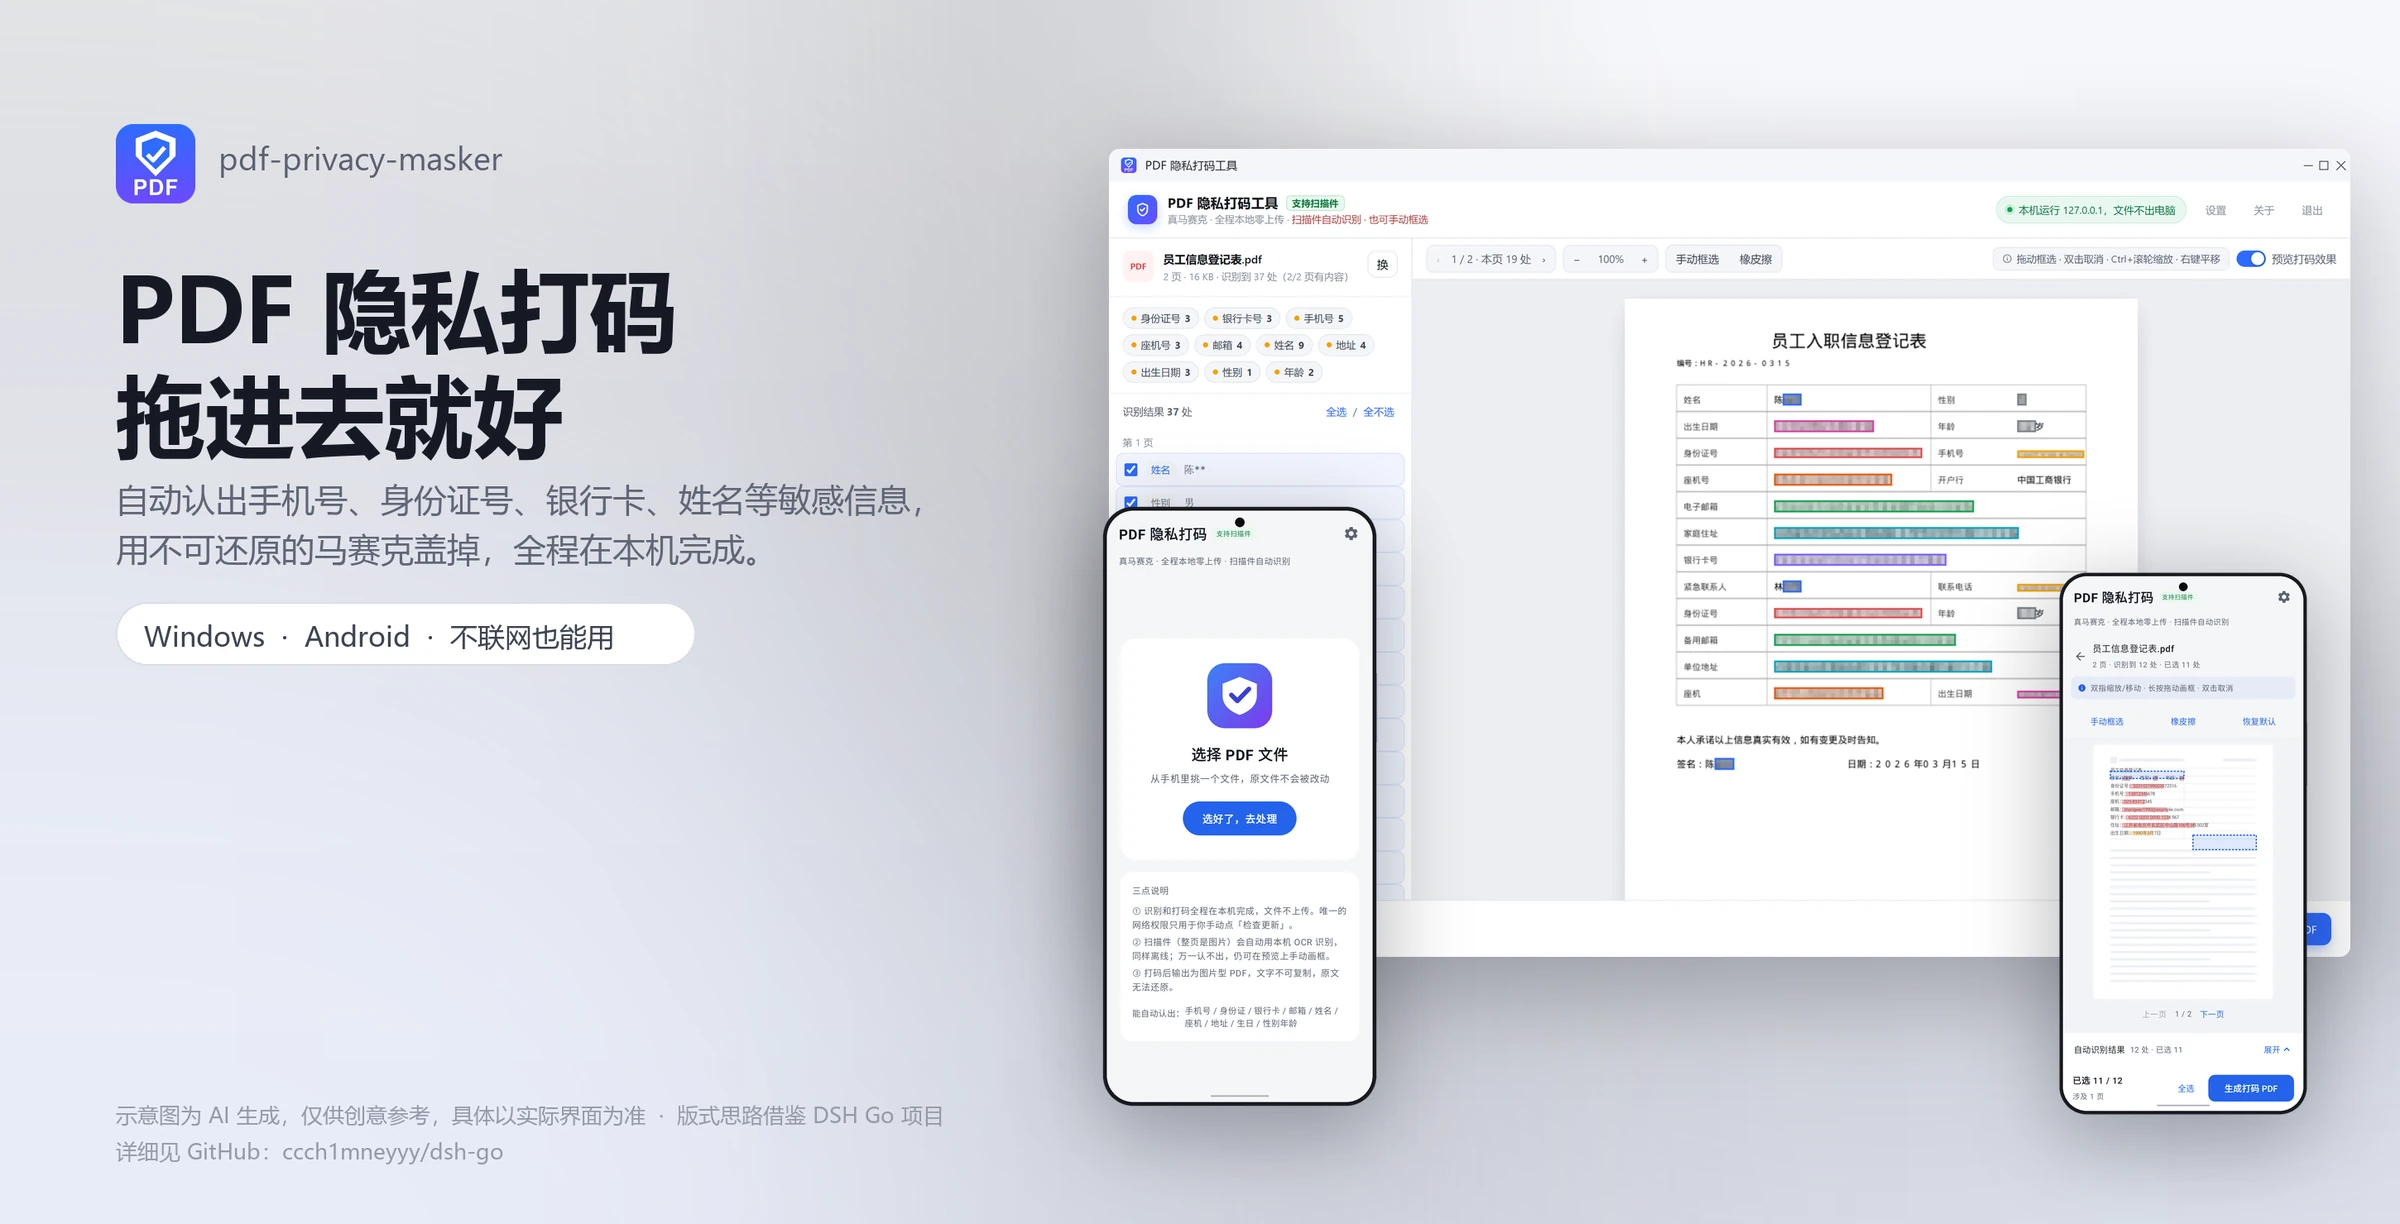
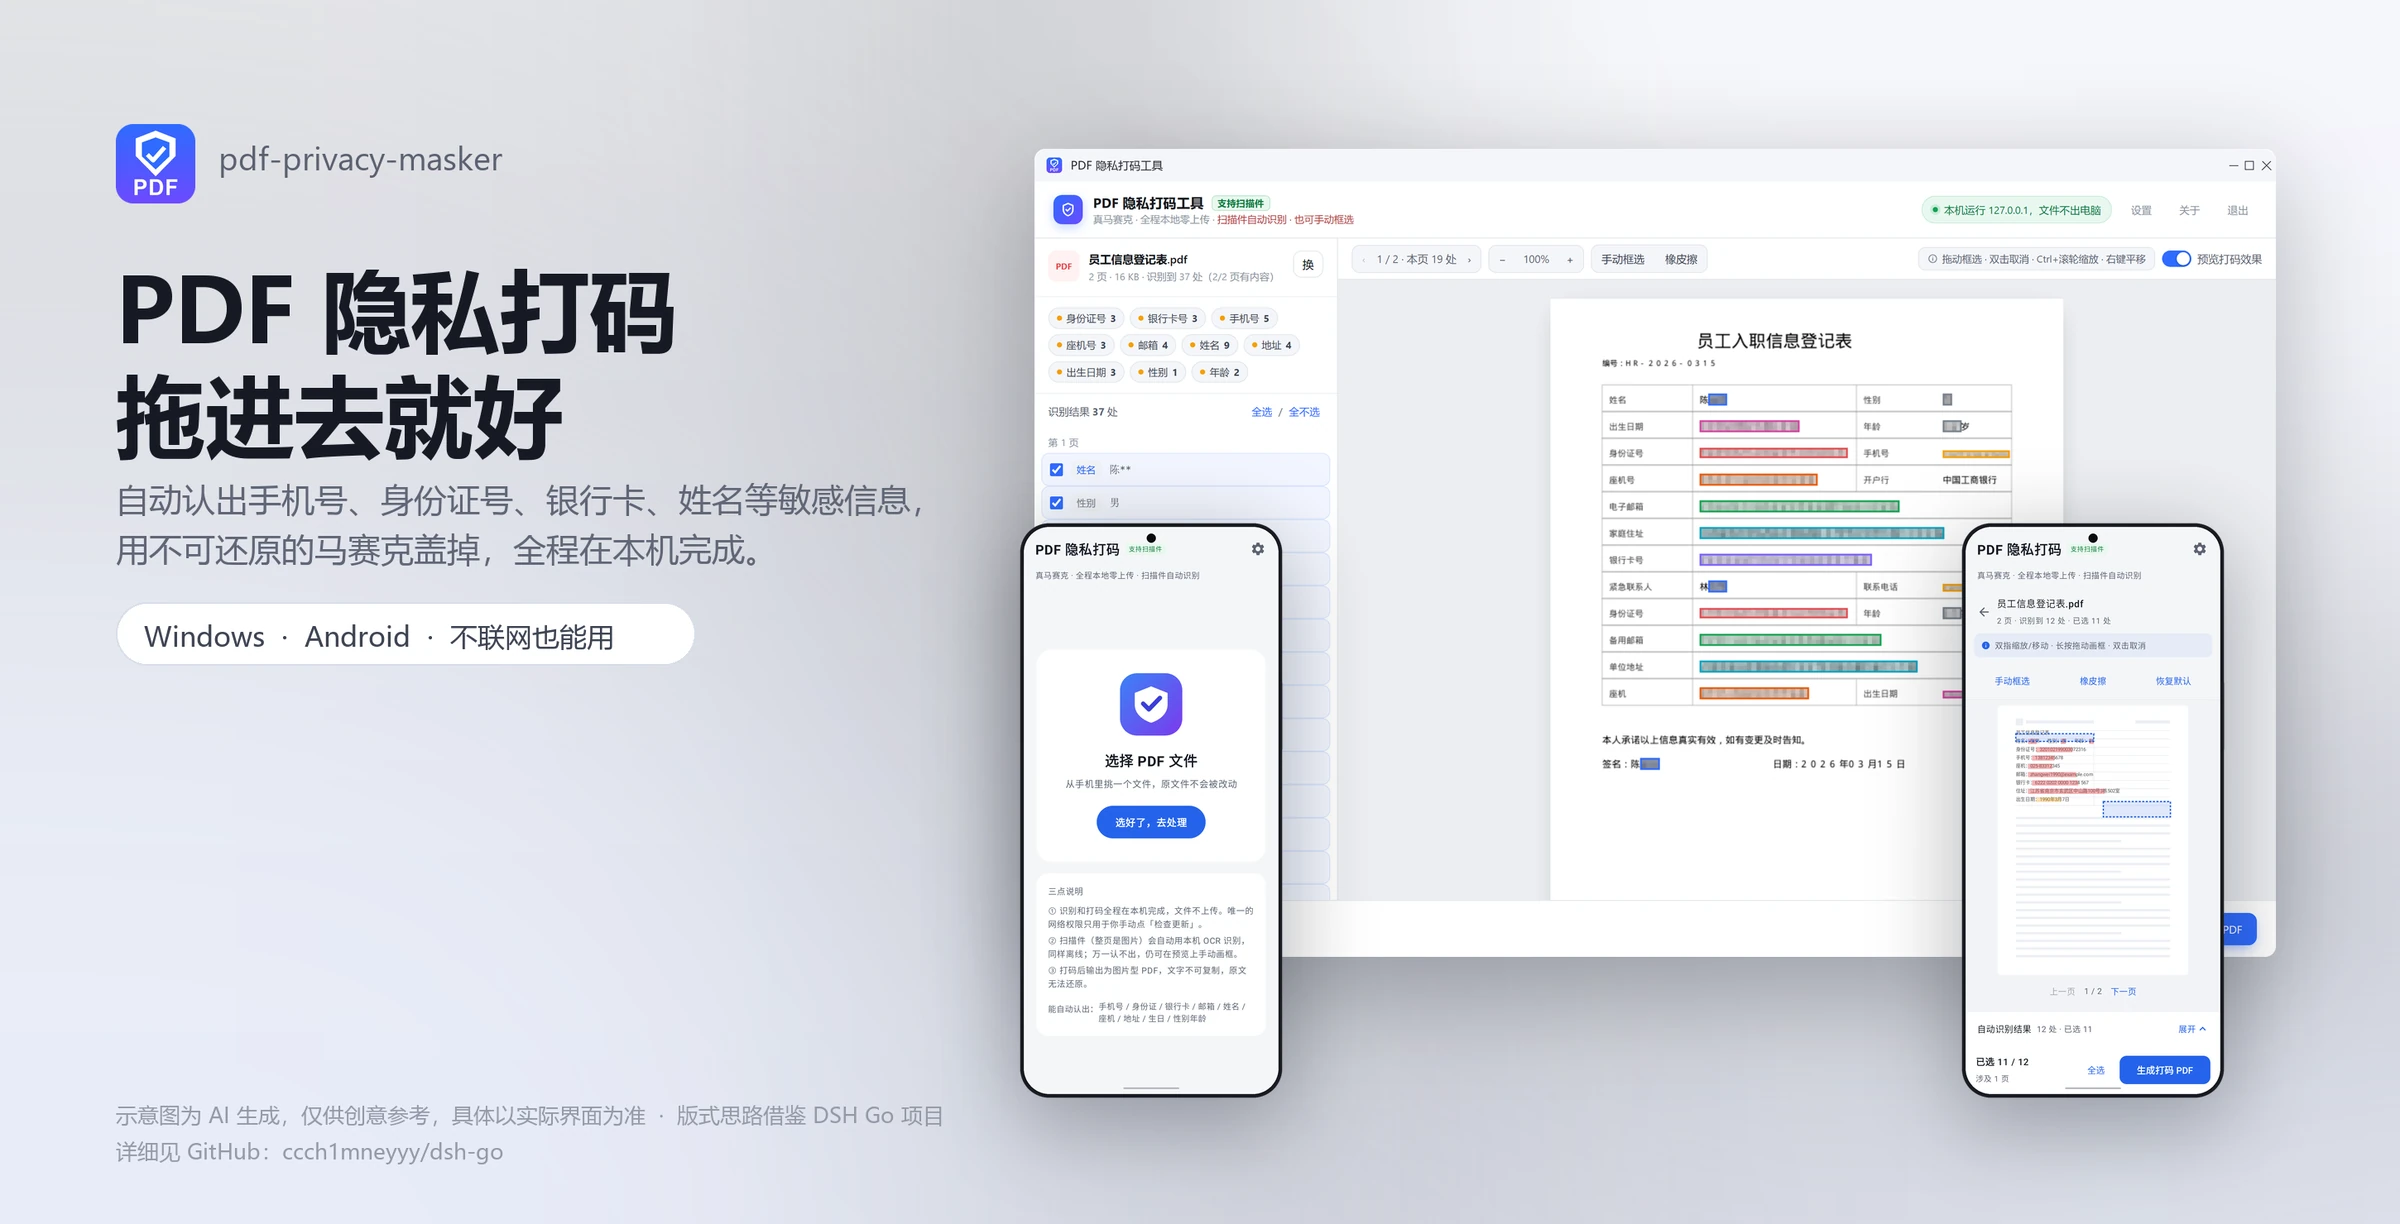
docs(readme): 首图构图微调——两台手机等高对齐、整块左移约 2cm
- 两台手机统一 max_h=700 并共用同一个 y，不再一高一低
- 窗口+手机整块左移 90px，右侧不再空一大块

diff --git a/dev/make_readme_shots.py b/dev/make_readme_shots.py
@@ -567,15 +567,17 @@ def hero(lang):
     cv = canvas((W, H))
     win = frame_window(shot_window_png(lang, "work"), WIN_TITLE[lang])
     win = fit(win, max_w=1500)
-    wx = W - win.width - 60
+    wx = W - win.width - 150          # 整块往左压一点，右边不留太空
     wy = 180
     drop_in(cv, win, (wx, wy), radius=26, blur=60, alpha=70, offset=(0, 34))
 
-    ph1 = fit(frame_phone(PHONE_SRC[("home", lang)]), max_h=730)
-    ph2 = fit(frame_phone(PHONE_SRC[("work", lang)]), max_h=660)
-    drop_in(cv, ph1, (wx - 10, H - ph1.height - 140),
+    # 两台手机必须等高、同一个 y：高度不同就会一高一低，看着像没摆正
+    ph1 = fit(frame_phone(PHONE_SRC[("home", lang)]), max_h=700)
+    ph2 = fit(frame_phone(PHONE_SRC[("work", lang)]), max_h=700)
+    py = H - max(ph1.height, ph2.height) - 150
+    drop_in(cv, ph1, (wx - 20, py),
             radius=int(ph1.width * 0.12), blur=50, alpha=80, offset=(0, 26))
-    drop_in(cv, ph2, (wx + win.width - ph2.width - 50, H - ph2.height - 130),
+    drop_in(cv, ph2, (wx + win.width - ph2.width - 60, py),
             radius=int(ph2.width * 0.12), blur=50, alpha=80, offset=(0, 26))
 
     d = ImageDraw.Draw(cv)
